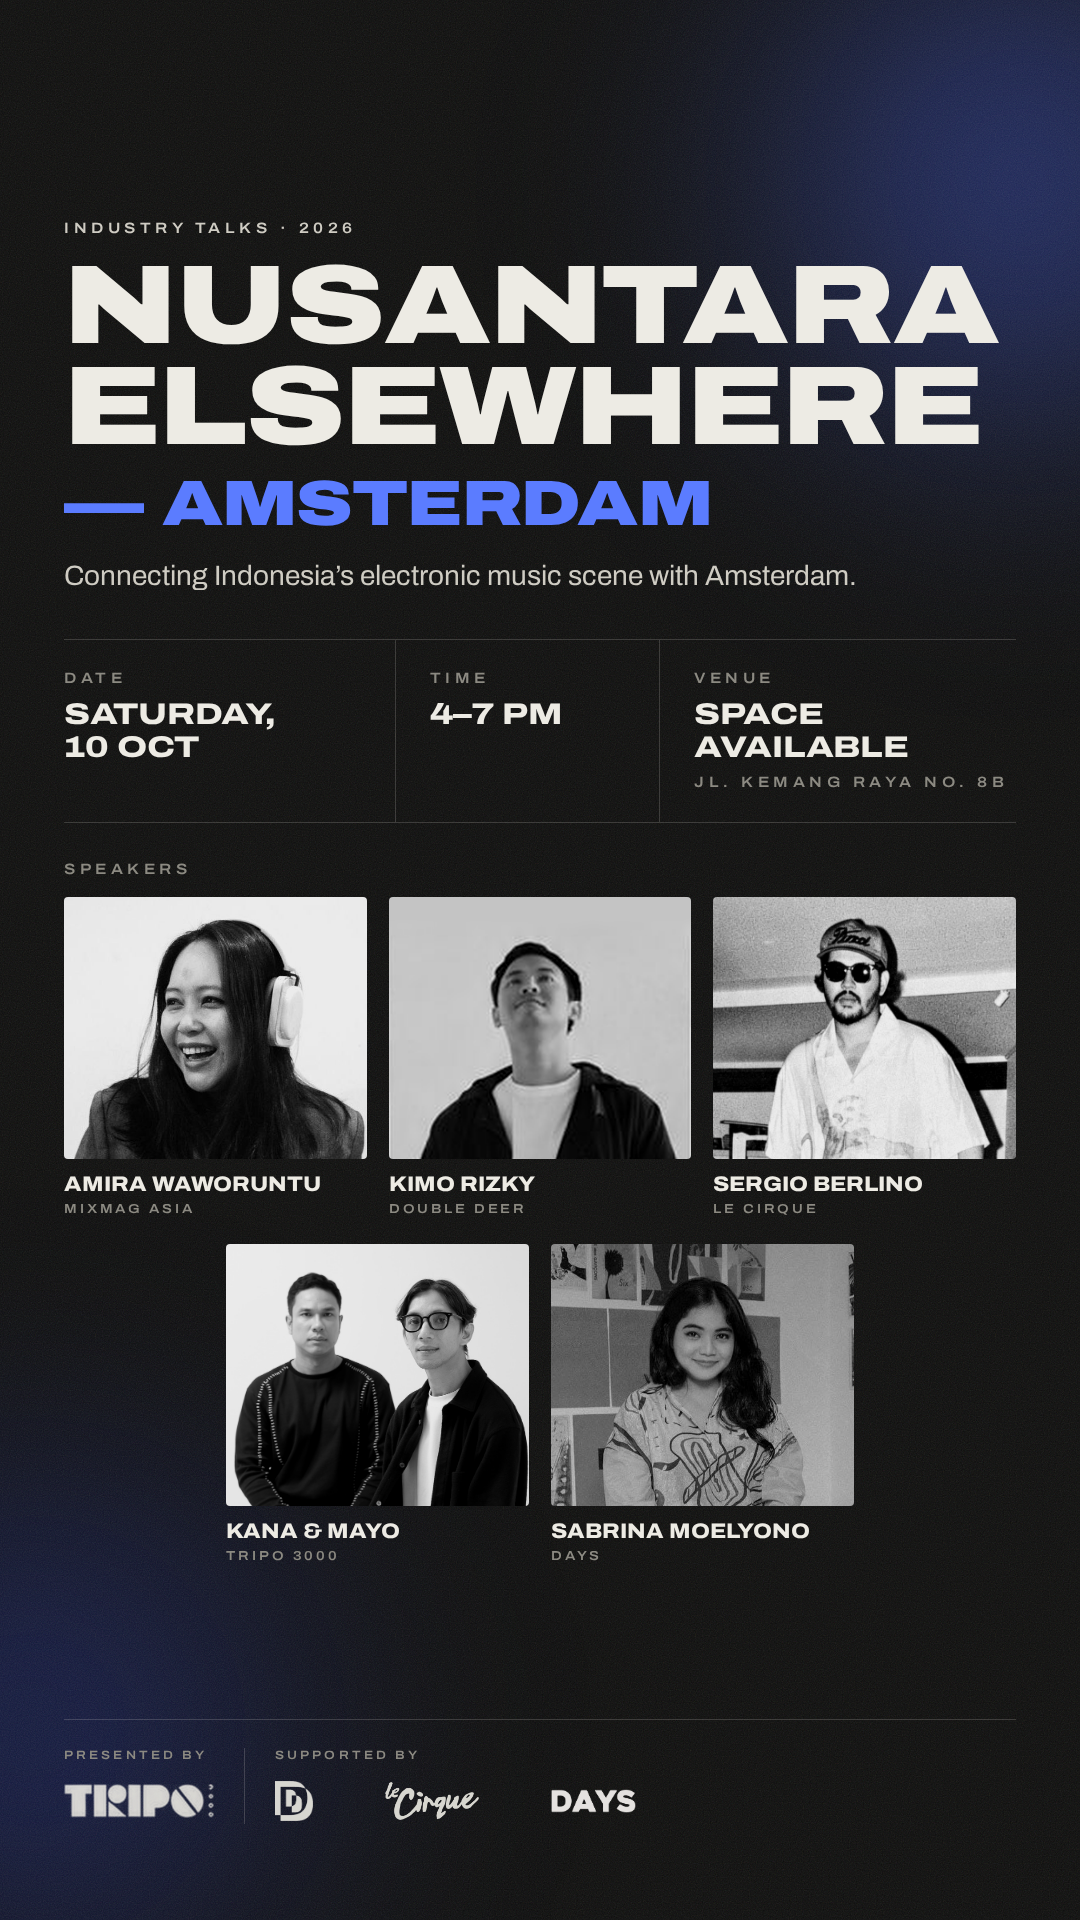
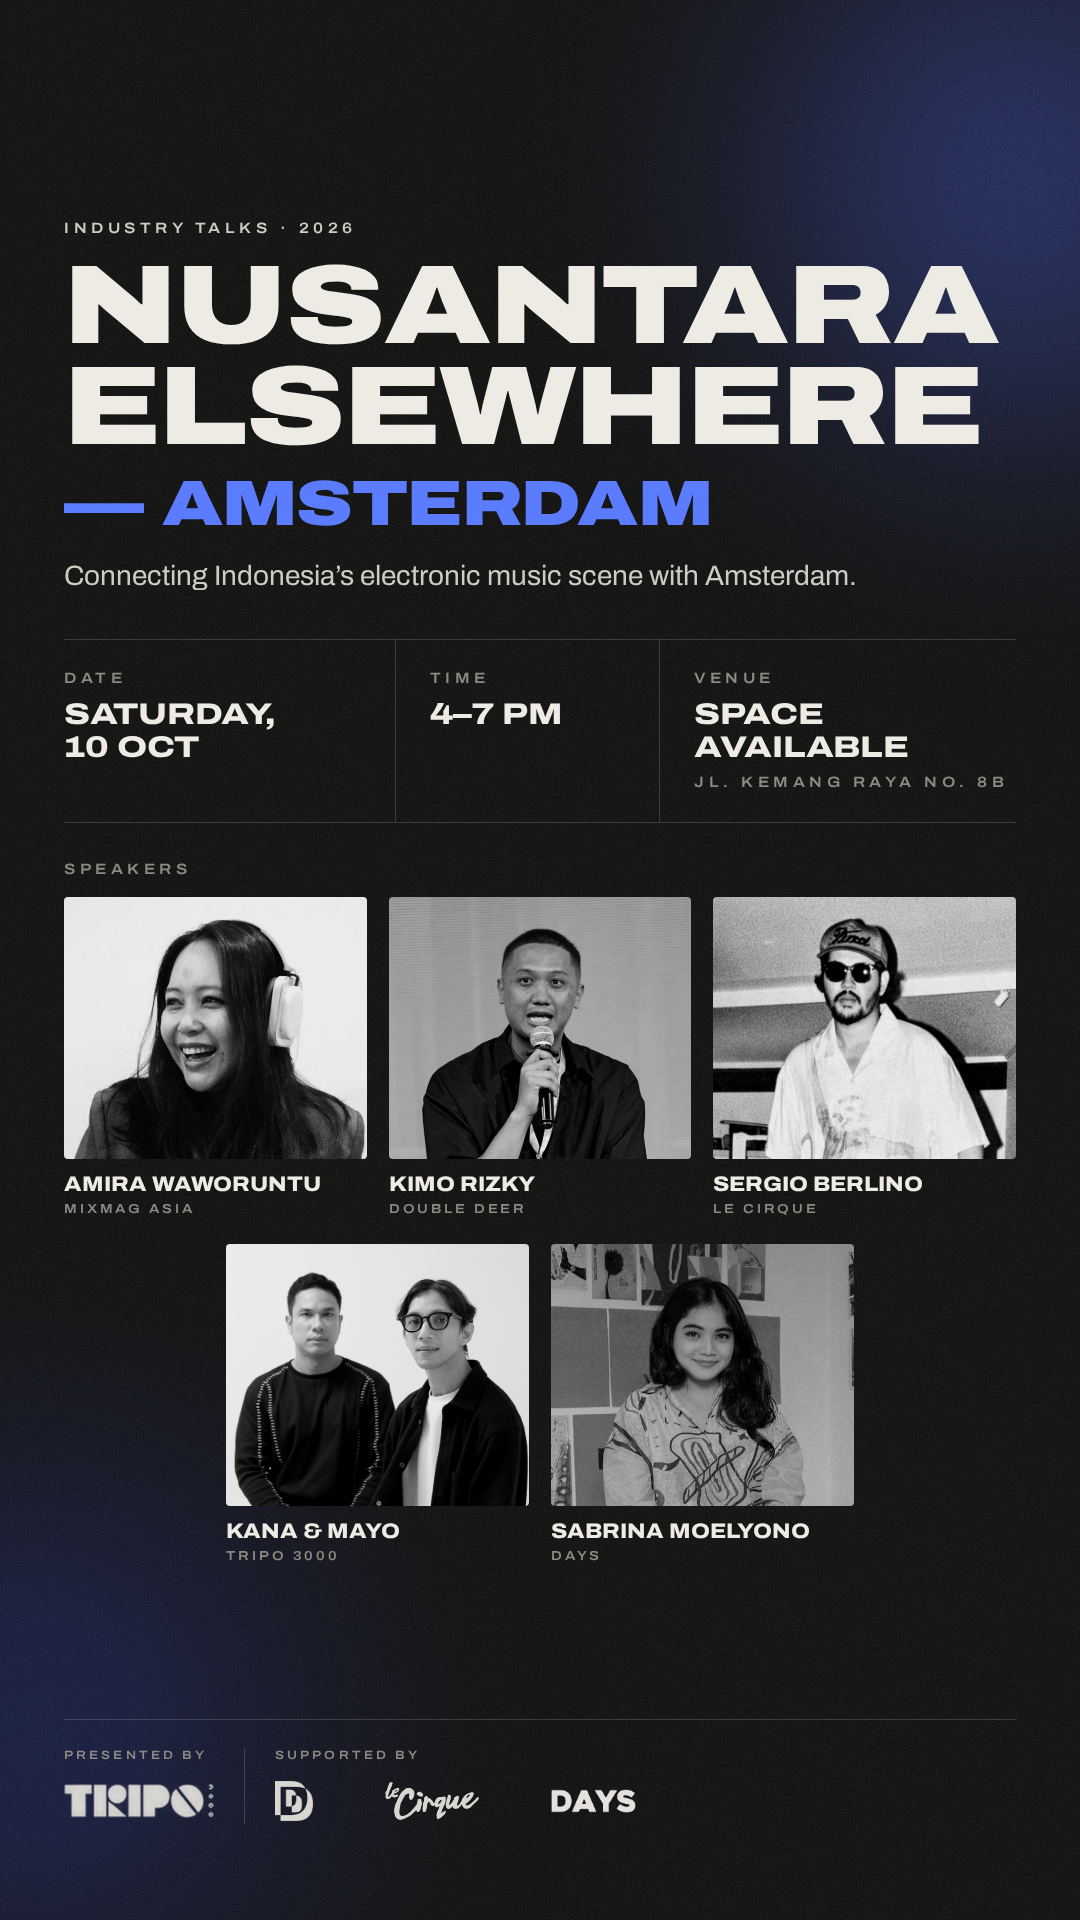
Lineup: new Kimo photo
Claude-Session: https://claude.ai/code/session_01Sc5gF2HRFqjLpMQDrx7aqZ

Changed region(s): [[0.3361, 0.4688, 0.6417, 0.625]]

diff --git a/events/ade-community-talks-2026/rebrand/01-lineup-nusantara.html b/events/ade-community-talks-2026/rebrand/01-lineup-nusantara.html
@@ -32,7 +32,7 @@
   <div class="label" style="margin-top:38px;margin-bottom:20px">Speakers</div>
   <div class="grid">
     <div class="card"><div class="ph"><img src="../img/amira.png"></div><div class="nm">Amira Waworuntu</div><div class="label org">Mixmag Asia</div></div>
-    <div class="card"><div class="ph"><img src="../img/kimo.png" style="object-position:top"></div><div class="nm">Kimo Rizky</div><div class="label org">Double Deer</div></div>
+    <div class="card"><div class="ph"><img src="../img/kimo-stage.jpg" style="object-position:center"></div><div class="nm">Kimo Rizky</div><div class="label org">Double Deer</div></div>
     <div class="card"><div class="ph"><img src="../img/sergio.png"></div><div class="nm">Sergio Berlino</div><div class="label org">Le Cirque</div></div>
     <div class="card"><div class="ph"><img src="../img/tripo3000.jpg"></div><div class="nm">Kana &amp; Mayo</div><div class="label org">Tripo 3000</div></div>
     <div class="card"><div class="ph"><img src="../img/sabrina.jpg"></div><div class="nm">Sabrina Moelyono</div><div class="label org">DAYS</div></div>
